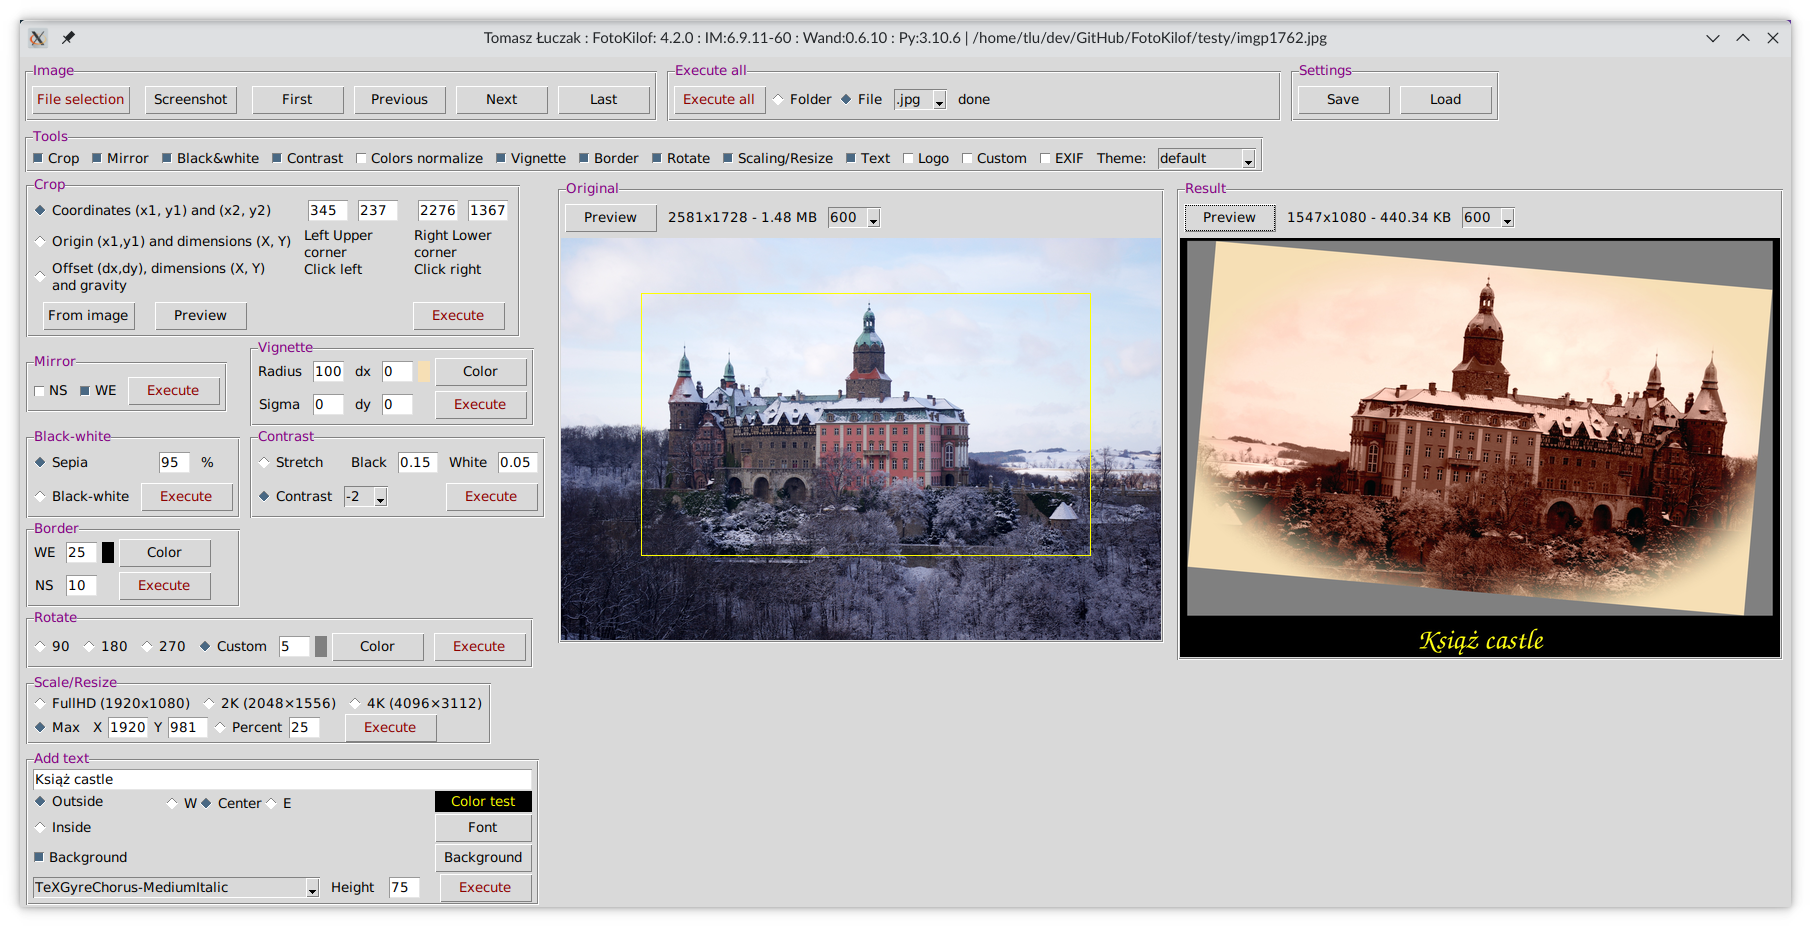
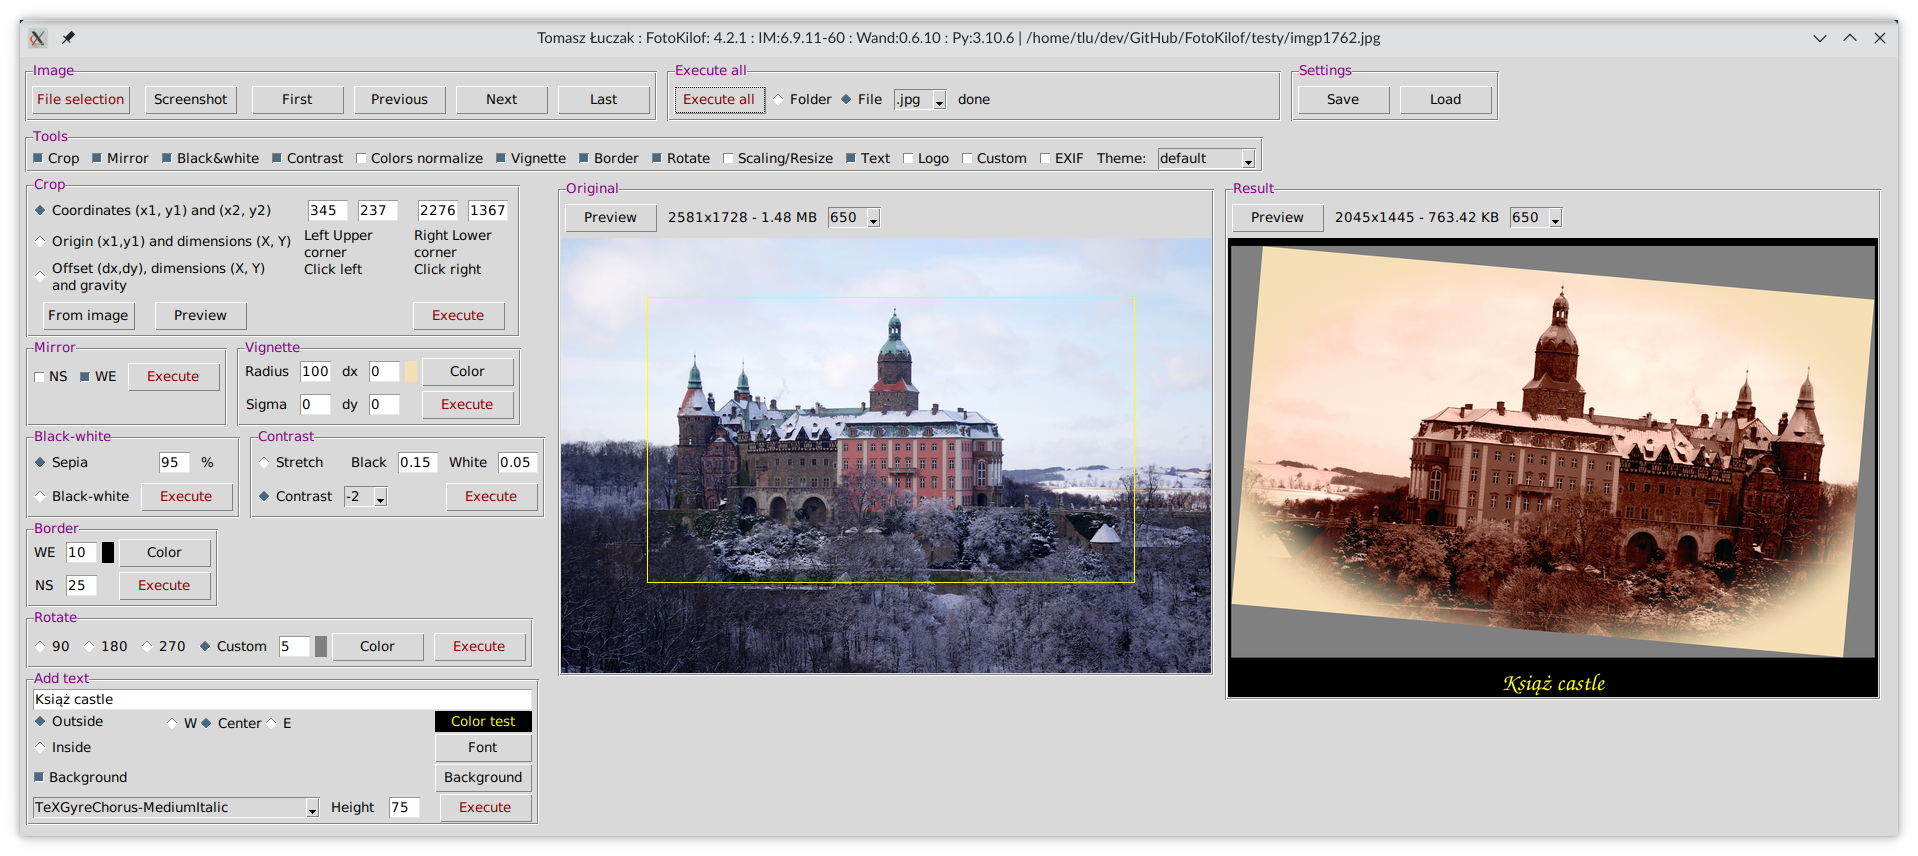
4.2.1

diff --git a/fotokilof/fotokilof.py b/fotokilof/fotokilof.py
@@ -739,17 +739,14 @@ def open_screenshot():
 def color_choose_rotate():
     """ color selection for rotate"""
     color = askcolor(img_rotate_color.get())
-    print('rotate: '+ str(color))
     if color[1] is not None:
         img_rotate_color.set(color[1])
         l_rotate_color.configure(bg=color[1])
-    color_choose_set()
 
 
 def color_choose_border():
     """ Border color selection """
     color = askcolor(img_border_color.get())
-    print('border: '+ str(color))
     if color[1] is not None:
         img_border_color.set(color[1])
         l_border_color.configure(bg=color[1])
@@ -758,7 +755,6 @@ def color_choose_border():
 def color_choose_vignette():
     """ color selection for rotate"""
     color = askcolor(img_vignette_color.get())
-    print('vignette: '+ str(color))
     if color[1] is not None:
         img_vignette_color.set(color[1])
         l_vignette_color.configure(bg=color[1])
@@ -767,7 +763,6 @@ def color_choose_vignette():
 def color_choose_box():
     """ Background color selection """
     color = askcolor(img_text_color.get())
-    print('background: '+ str(color))
     if color[1] is not None:
         img_text_box_color.set(color[1])
         l_text_color.configure(bg=img_text_box_color.get())
@@ -776,7 +771,6 @@ def color_choose_box():
 def color_choose():
     """ Color selection """
     color = askcolor(img_text_color.get())
-    print('text: '+ str(color))
     if color[1] is not None:
         img_text_color.set(color[1])
         l_text_color.configure(fg=img_text_color.get())
@@ -1278,6 +1272,21 @@ def tools_set(preview_on):
         frame_border.grid_remove()
     else:
         frame_border.grid(row=1, column=1, sticky=W, padx=5)
+
+    if (img_bw_on.get() == 0) and (img_contrast_on.get() == 0):
+        frame_bw_contrast.grid_remove()
+    else:
+        frame_bw_contrast.grid()
+
+    if (img_border_on.get() == 0) and (img_normalize_on.get() == 0):
+        frame_border_normalize.grid_remove()
+    else:
+        frame_border_normalize.grid()
+
+    if (img_mirror_on.get() == 0) and (img_vignette_on.get() == 0):
+        frame_mirror_vignette.grid_remove()
+    else:
+        frame_mirror_vignette.grid()
 
     if img_rotate_on.get() == 0:
         frame_rotate.grid_remove()
@@ -2536,7 +2545,6 @@ if GM_or_IM is not None:
     img_text_font_dict = fonts()    # Reading available fonts
     ini_read_wraper()  # Loading from config file
     tools_set(0)
-    #color_choose_set()
     text_tool_hide_show()
     l_border_color.configure(bg=img_border_color.get())
     if os.path.isfile(file_in_path.get()):
